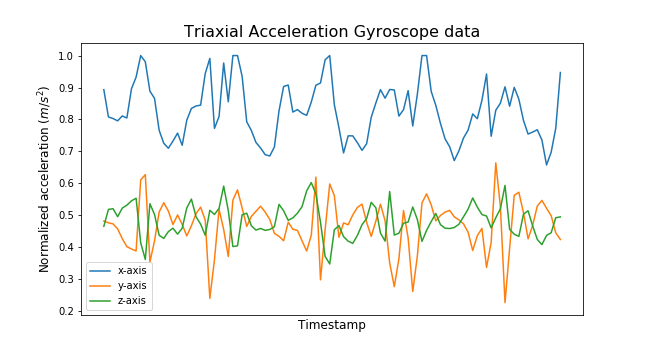
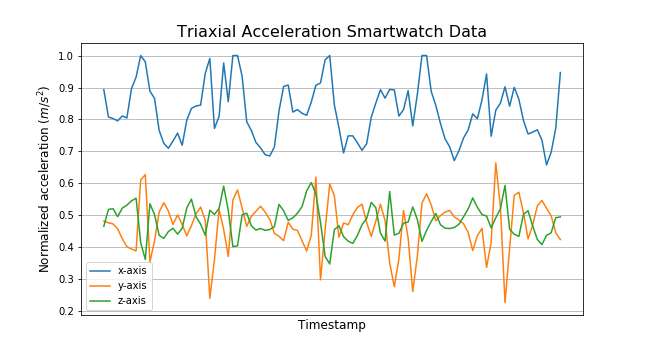
Add grid to figure

Changed region(s): [[0.2778, 0.0611, 0.7716, 0.1222]]

diff --git a/README.md b/README.md
@@ -68,7 +68,9 @@ Figure 2. Sample distribution across each activity.
   <img src='images/activity_count.svg' width='600px'>
 </p>
 
-The data looks as I expected. Continuous, time-series data in which the triaxes are distinct and seperate. There does not seem to be any outliers and the prediction classes are distributed evenly. 
+The data looks as I expected. Continuous with clear trends in time. There does not seem to be any outliers. However, it remains to be seen whether 
+
+Additionally, the prediction classes are distributed evenly and well represented in number. 
 
 ### Algorithm and Techniques
 I chose to frame this task as a sequence classification problem. Therefore, The algorithm is a 1D convolution followed by a LSTM layer. I chose an LSTM because it is good at remembering patterns in sequences. This problem has traditionally been solved with Support Vector Machines and even CNNs. However, for my case, learning the underlying the pattern in the data is more important than simply learning the data itself because I intend to use this model to fine-tune actual data from the developmentally disabled. 
